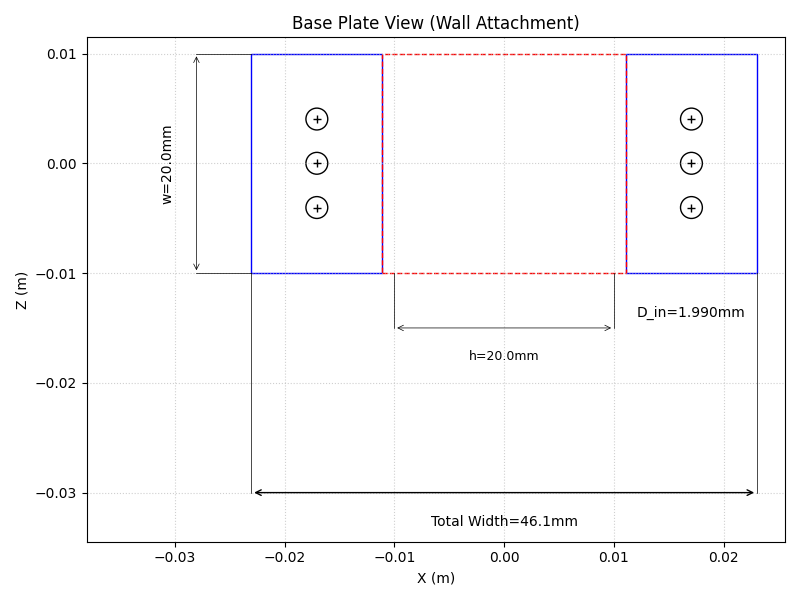
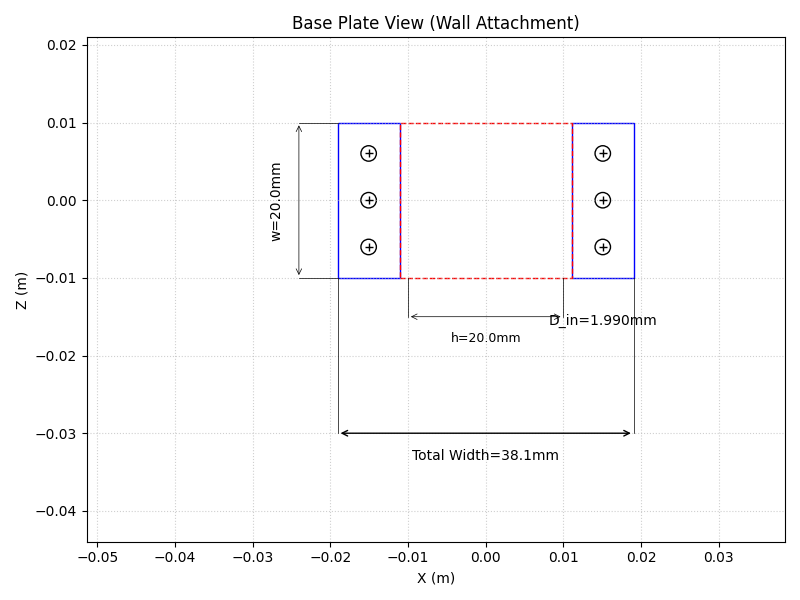
changed the spacing to minimum allowable ditance from edge

diff --git a/main.py b/main.py
@@ -155,7 +155,7 @@ def Number_Of_Fasteners(w, D_2, N_min):
     elif (Materials[material_used]['type (metal or composite)']) == 2 :
         edge_center_min = np.array([4, 5])*D_2
         
-    edge_spacing_2 = max(edge_center_min)
+    edge_spacing_2 = min(edge_center_min)
     # fastener spacing always the same
     center_center_min = 1.5*D_2
 
@@ -176,7 +176,7 @@ def Number_Of_Fasteners(w, D_2, N_min):
         if N_min > N_max: # if more fasteners are needed, this will calculate the spacing
             w = (N_min-1) * center_center_min + 2 * edge_spacing_1
         else:
-            edge_spacing_1 = max(edge_center_min)
+            edge_spacing_1 = min(edge_center_min)
             if N_min > 1:
                 center_center_min = (w - 2 * edge_spacing_1) / (N_min - 1)
             else:
@@ -184,7 +184,7 @@ def Number_Of_Fasteners(w, D_2, N_min):
 
         # rawdogging it to only give relevant information as output, this line doesnt make sense but trust
         N_max = N_min
-        edge_spacing_2 = max(edge_center_min)
+        edge_spacing_2 = min(edge_center_min)
         #print(edge_spacing, N_max, "2") # for testing
     
 

diff --git a/plot_lug.py b/plot_lug.py
@@ -48,7 +48,7 @@ def Number_Of_Fasteners(w, D_in, N_min):
     elif (materials[material_used]['type (metal or composite)']) == 2 :
         edge_center_min = np.array([4, 5])*D_in
         
-    edge_spacing_2 = max(edge_center_min)
+    edge_spacing_2 = min(edge_center_min)
     center_center_min = 1.5*D_in
 
     N_max_check = []
@@ -66,14 +66,14 @@ def Number_Of_Fasteners(w, D_in, N_min):
             w = (N_min-1) * center_center_min + 2 * edge_spacing_1
         else:
             # Distribute fasteners evenly in the available range (keeping edge spacing fixed)
-            edge_spacing_1 = max(edge_center_min)
+            edge_spacing_1 = min(edge_center_min)
             if N_min > 1:
                 center_center_min = (w - 2 * edge_spacing_1) / (N_min - 1)
             else:
                 # If only 1 fastener, center it (spacing doesn't matter, but edge spacing does)
                 edge_spacing_1 = w / 2
         N_max = N_min
-        edge_spacing_2 = max(edge_center_min)
+        edge_spacing_2 = min(edge_center_min)
     
     return N_max, edge_spacing_1, center_center_min, w, D_in, edge_spacing_2
 
